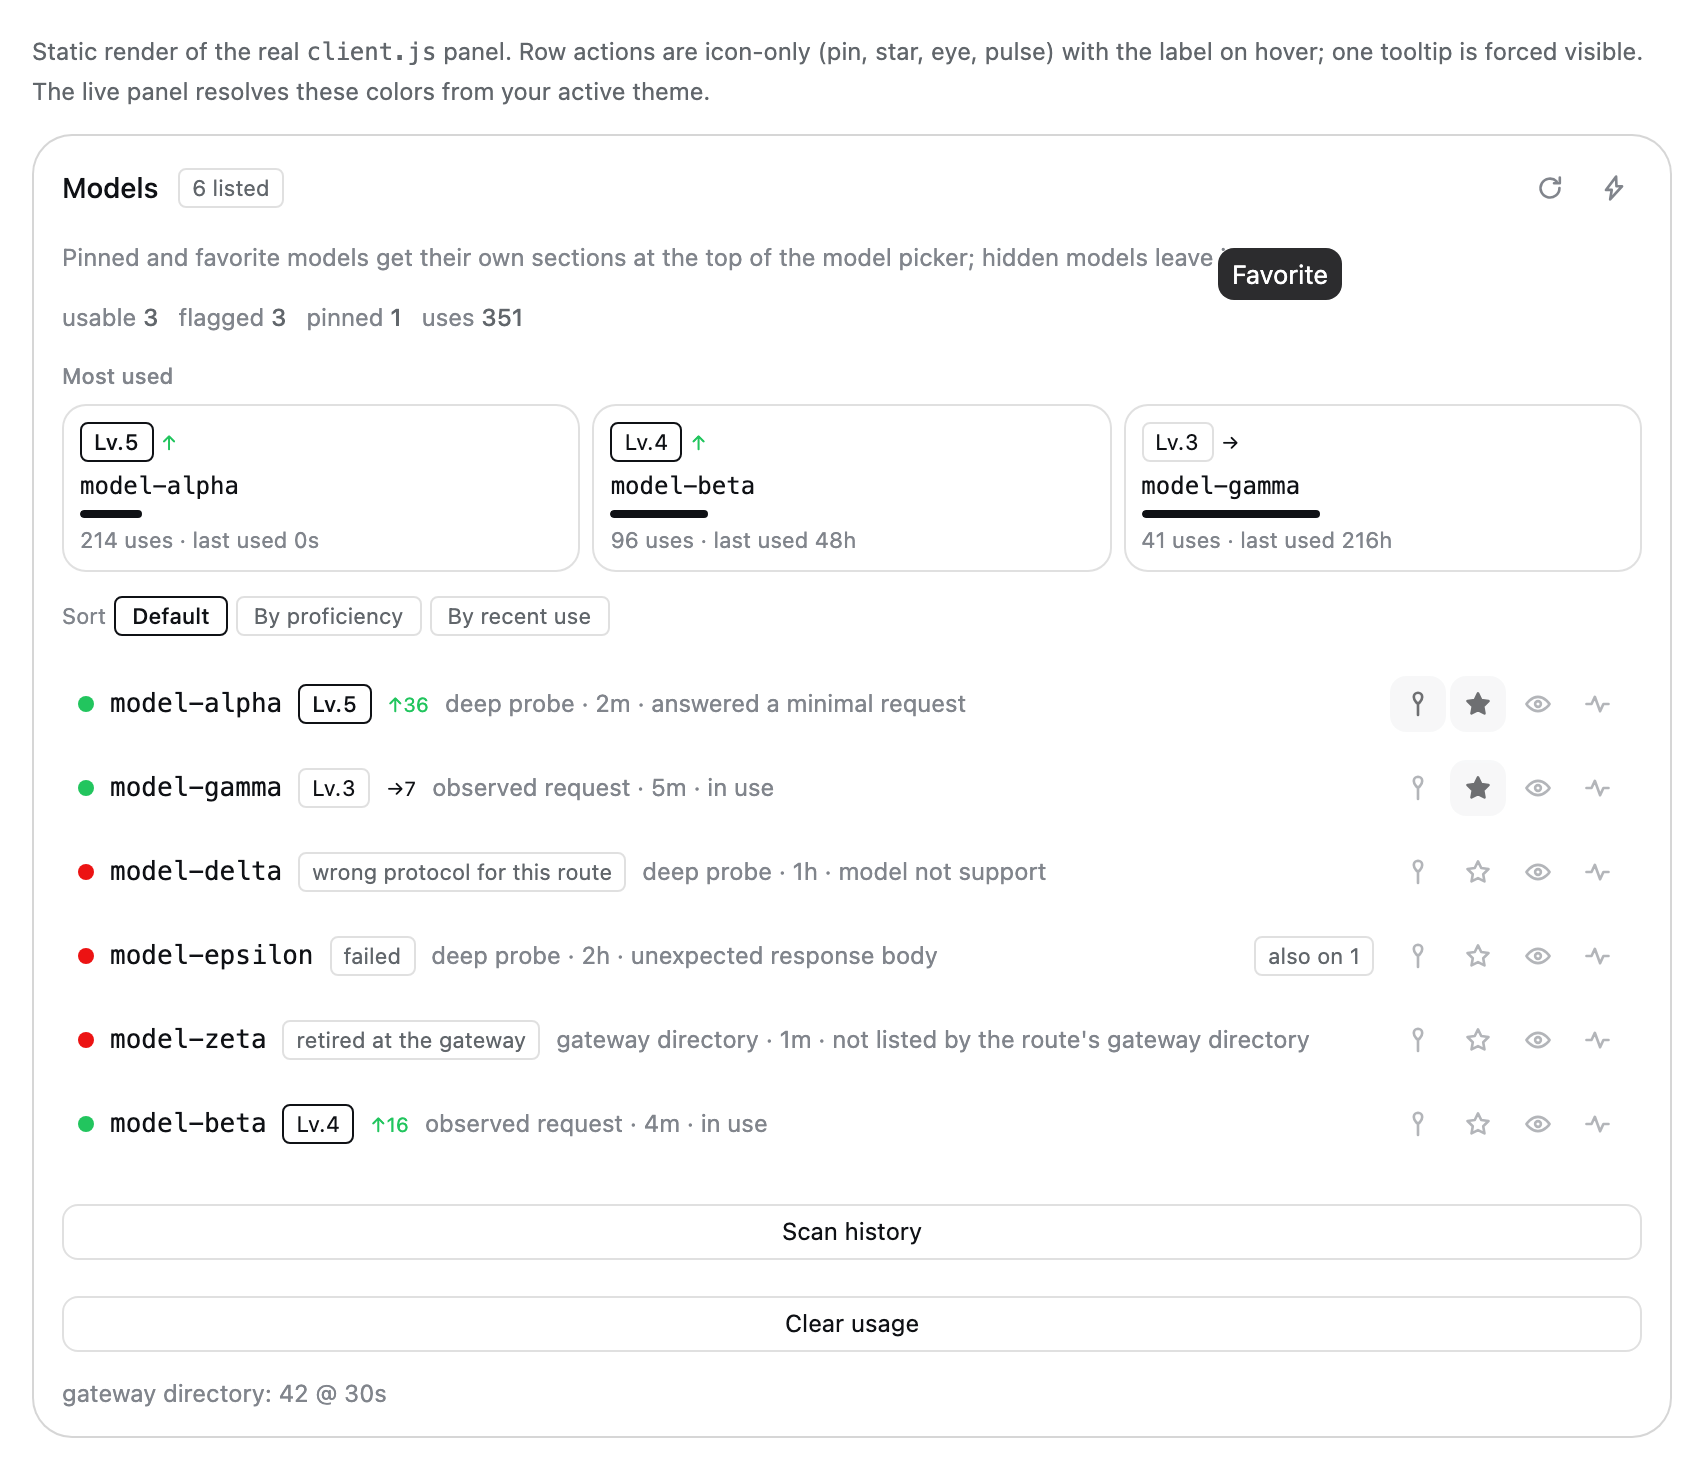
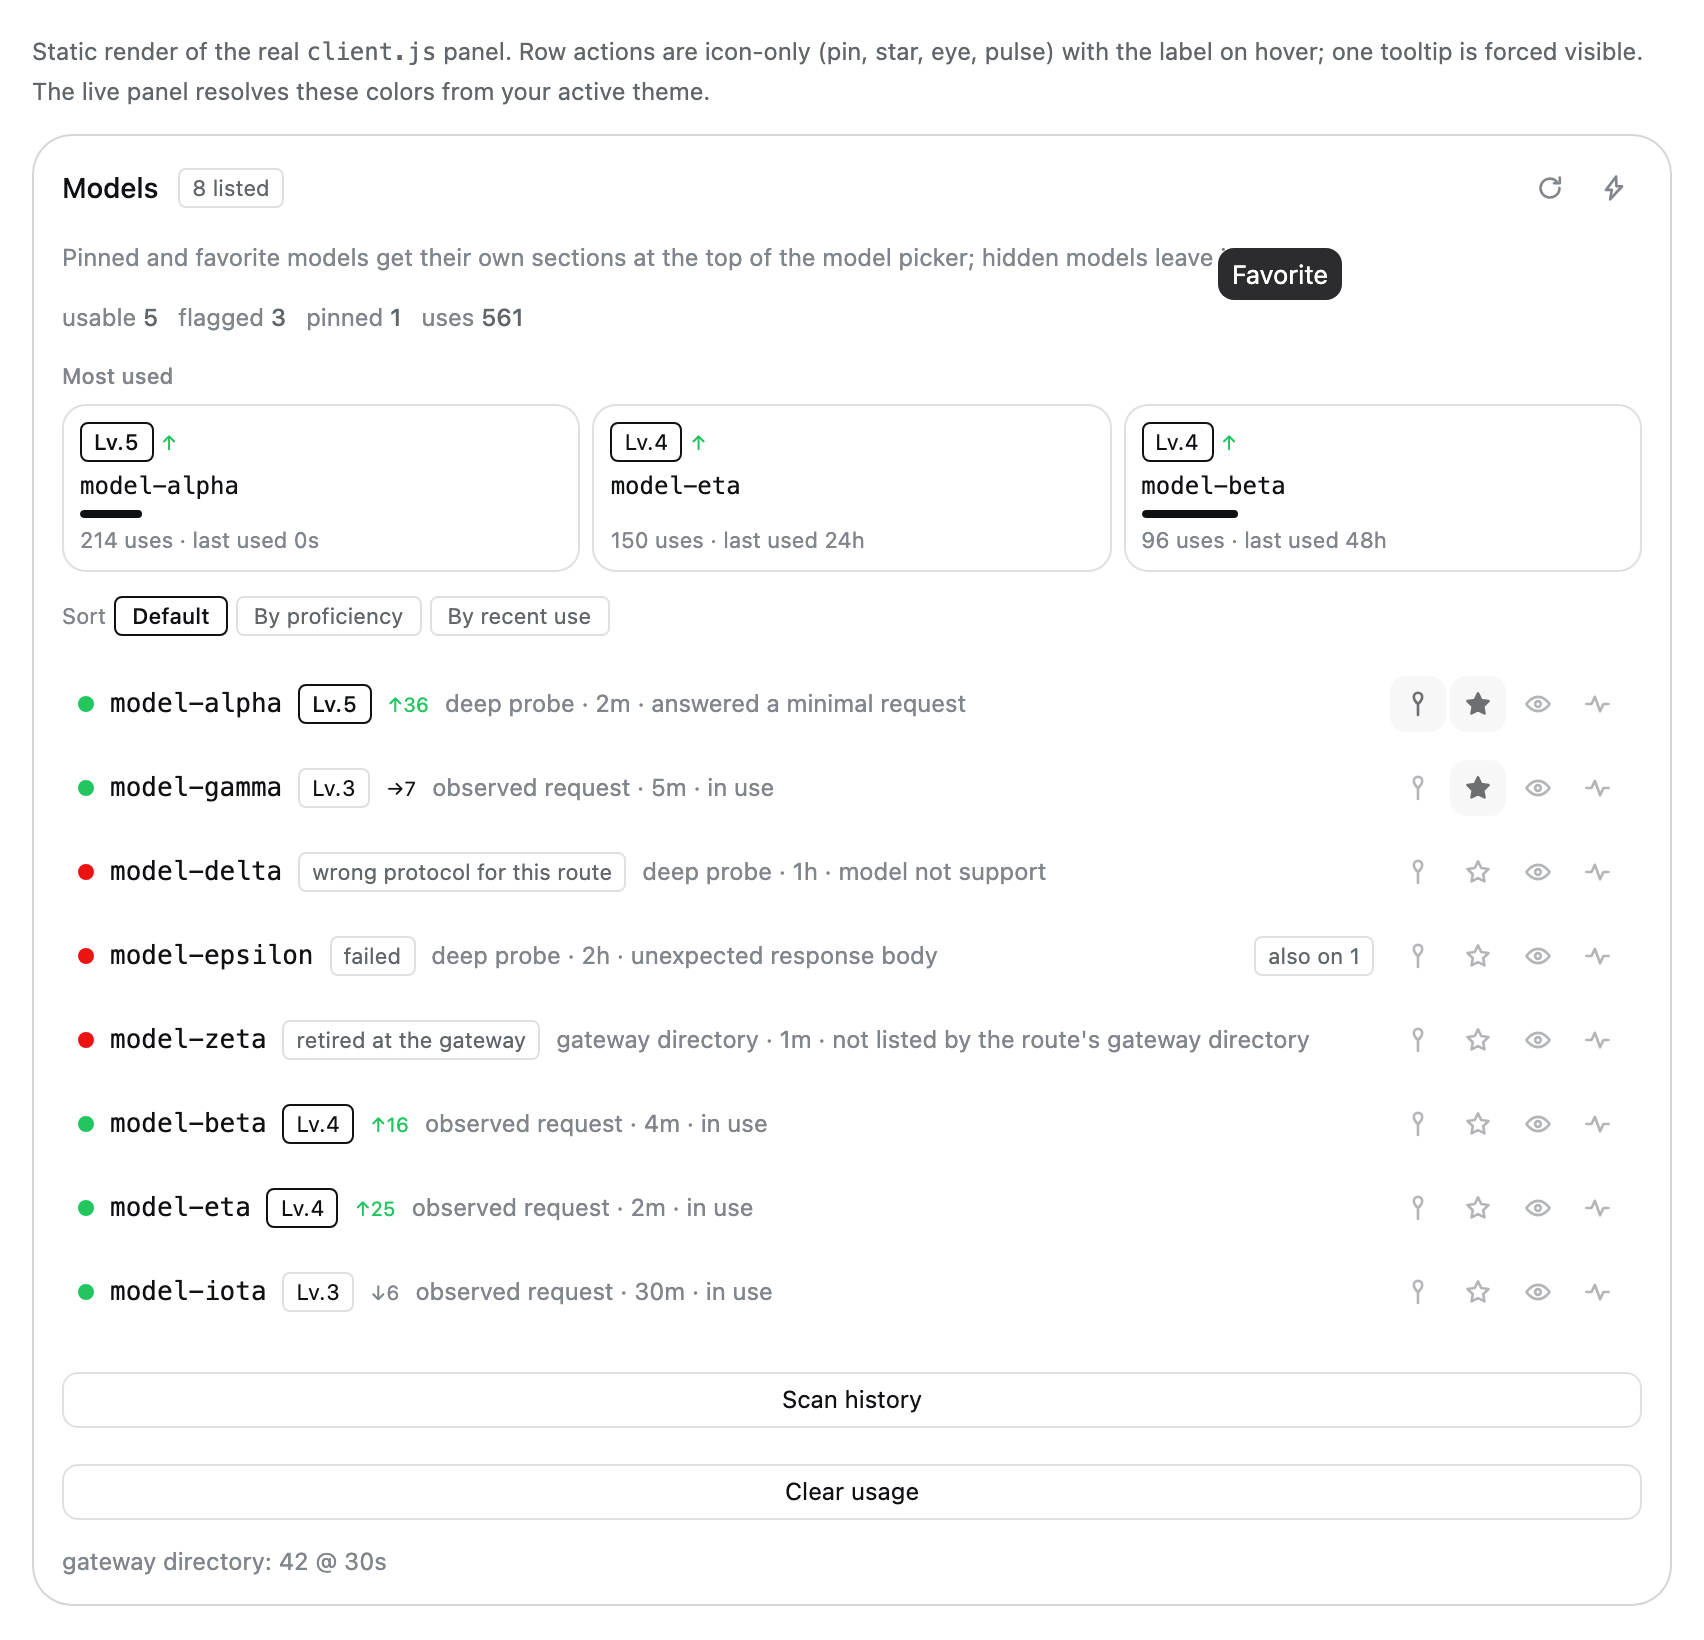
Rank, annotate and explain models in the composer picker
The picker showed a level chip and a bare trend arrow, which left the row
unable to answer the two questions the panel's card already answers: how
much of this week the arrow actually represents, and how far the model is
from its next level. Attach the 7-day count to the arrow, put a
distance-to-next-level bar on the rows of the section built from usage,
and spell the whole figure out in the tooltip.

Add the panel's sort control to the picker's footer as well, applied per
section so the lifted and route sections stay separate, and shown only
once usage exists — three orderings that all look alike are not a
control, they are noise.

diff --git a/client.js b/client.js
@@ -497,6 +497,14 @@ window.__ModuleLoader__.load({
 .llmm-item:focus-visible{outline:none;background:var(--dsw-alias-interactive-bg-hover)}
 .llmm-item.llmm-active{background:var(--dsw-alias-interactive-bg-hover)}
 .llmm-item.llmm-down{opacity:.55}
+/* The hero row's progress bar is a hairline pinned to the row's bottom edge, so
+   it adds no height to the list: the bar answers "how close is the next level"
+   without making the menu taller than the shipped picker it replaces. */
+.llmm-item{position:relative}
+.llmm-item-bar{position:absolute;left:7px;right:7px;bottom:2px;height:2px;border-radius:1px;background:var(--dsw-alias-bg-layer-1,var(--dsw-alias-border-l3));overflow:hidden}
+.llmm-item-bar-fill{display:block;height:100%;border-radius:1px;background:var(--dsw-alias-brand-primary,var(--dsw-alias-label-secondary));transition:width .2s ease}
+/* The sort control is a footer, not a row: it stays put while the list scrolls. */
+.llmm-menu-foot{flex:none;margin:3px 0 0;padding:4px 7px 2px;border-top:0.5px solid var(--dsw-alias-border-l3)}
 .llmm-empty{margin:2px 0;padding:12px;border:1px dashed var(--dsw-alias-border-l3);border-radius:var(--dsw-radius-lg);color:var(--dsw-alias-label-tertiary);font-size:12px;line-height:18px;text-align:center}
 .llmm-banner{display:flex;align-items:center;gap:8px;padding:6px 10px;border:0.5px solid var(--dsw-alias-state-warn-primary);border-radius:var(--dsw-radius-md);background:color-mix(in srgb, var(--dsw-alias-state-warn-primary) 12%, transparent);color:var(--dsw-alias-state-warn-label);font-size:12px;line-height:18px}
 .llmm-banner b{font-family:var(--ds-font-family-code);font-weight:500}
@@ -943,6 +951,11 @@ window.__ModuleLoader__.load({
       const [query, setQuery] = useState('')
       const [position, setPosition] = useState(null)
       const [failure, setFailure] = useState('')
+      // Which order the rows inside each section take. Default leaves every
+      // section in the order it was designed around; the two usage orderings are
+      // opt-in, exactly like the panel's, so opening the picker does not
+      // reshuffle a list the user has muscle memory for.
+      const [sortMode, setSortMode] = useState('default')
       const triggerRef = useRef(null)
       const menuRef = useRef(null)
 
@@ -1114,6 +1127,33 @@ window.__ModuleLoader__.load({
        */
       const spansRoutes = (rows) => new Set(rows.map(row => row.route)).size > 1
 
+      /**
+       * Order one section's rows by the active sort.
+       *
+       * Applied per section, not to the catalogue: the sections are rendered
+       * separately, so ordering the catalogue first would be undone by the split.
+       * `default` returns the rows untouched, which keeps both the designed order
+       * and the heat ranking that gives "Most used" its meaning.
+       *
+       * @param {object[]} rows - the section's rows.
+       * @returns {object[]} the same rows in display order.
+       */
+      const orderRows = (rows) => {
+        if (sortMode === 'default') return rows
+        const use = (row) => (row.usage === null || row.usage === undefined ? null : row.usage)
+        return rows.slice().sort((left, right) => {
+          if (sortMode === 'level') {
+            const level = (use(right)?.level ?? 0) - (use(left)?.level ?? 0)
+            if (level !== 0) return level
+          } else {
+            const heat = (use(right)?.heat ?? 0) - (use(left)?.heat ?? 0)
+            if (heat !== 0) return heat
+          }
+          const uses = (use(right)?.uses ?? 0) - (use(left)?.uses ?? 0)
+          return uses !== 0 ? uses : left.model.localeCompare(right.model)
+        })
+      }
+
       const choose = useCallback(async (row) => {
         setFailure('')
         const reuseEffort = current !== null && current.provider === row.route && current.model === row.model
@@ -1148,7 +1188,7 @@ window.__ModuleLoader__.load({
        * rather than drifting to the right edge, so a row reads the same way in both
        * surfaces.
        */
-      const renderItem = (row, showRoute) => {
+      const renderItem = (row, showRoute, hero) => {
         const overlayRow = overlay.get(`${row.route}/${row.model}`)
         const status = overlayRow ? overlayRow.status : 'unknown'
         const down = isProblem(status)
@@ -1161,8 +1201,14 @@ window.__ModuleLoader__.load({
           key: `${row.route}/${row.model}`,
           type: 'button',
           className: `llmm-item${active ? ' llmm-active' : ''}${down ? ' llmm-down' : ''}`,
+          // The same figures the panel's row explains, so a model is described
+          // once and read the same way wherever it appears.
           title: leveled
-            ? `${t('level')} ${usage.level} · ${usage.uses} ${t('usesLabel')} · ${usage.inputTokens + usage.outputTokens} ${t('tokensLabel')} · ${t(`trend${usage.trend === 'up' ? 'Up' : usage.trend === 'down' ? 'Down' : 'Flat'}`)}`
+            ? `${t('level')} ${usage.level} · ${usage.uses} ${t('usesLabel')}`
+              + (usage.nextAt > 0 ? ` · ${t('level')} ${usage.level + 1} @ ${usage.nextAt}` : '')
+              + ` · ${usage.inputTokens}/${usage.outputTokens} ${t('tokensLabel')}`
+              + (usage.seeded ? ` · ${t('seededNote')}` : '')
+              + ` · ${t(`trend${usage.trend === 'up' ? 'Up' : usage.trend === 'down' ? 'Down' : 'Flat'}`)}`
             : (overlayRow && overlayRow.reason ? overlayRow.reason : statusLabel(status)),
           onClick: () => { choose(row) },
         },
@@ -1173,13 +1219,31 @@ window.__ModuleLoader__.load({
           // chips, so the menu reads the same way as the panel.
           leveled ? h('span', { className: `llmm-chip llmm-lv llmm-lv-${Math.min(usage.level, 7)}` },
             `${t('levelShort')}.${usage.level}`) : null,
-          leveled && usage.trend !== 'flat'
-            ? h('span', { className: `llmm-trend llmm-trend-${usage.trend}` }, usage.trend === 'up' ? '↑' : '↓')
+          // The trailing count is what makes the arrow mean something: "busier"
+          // without a number cannot be told apart from one extra request. A model
+          // idle for a week keeps its level but shows no trend, because there is
+          // no recent use to report either way.
+          leveled && usage.recent7 > 0
+            ? h('span', {
+              className: `llmm-trend llmm-trend-${usage.trend}`,
+              title: t(`trend${usage.trend === 'up' ? 'Up' : usage.trend === 'down' ? 'Down' : 'Flat'}`),
+            }, `${usage.trend === 'up' ? '↑' : usage.trend === 'down' ? '↓' : '→'}${usage.recent7}`)
             : null,
           // The route chip takes the panel's "also on" slot: the same kind of
           // annotation, pushed to the right edge by its own margin.
           showRoute ? h('span', { className: 'llmm-chip llmm-route' }, row.route) : null,
           active ? h('span', { className: 'llmm-chip' }, t('selected')) : null,
+          // The lifted section is where the day-to-day models live, so it is the
+          // one place worth the space of a distance-to-next-level bar: the same
+          // question the panel's hero card answers, on the surface where the
+          // model is actually chosen.
+          hero && leveled
+            ? h('span', { className: 'llmm-item-bar', 'aria-hidden': true },
+              h('span', {
+                className: 'llmm-item-bar-fill',
+                style: { width: `${Math.round((usage.progress ?? 0) * 100)}%` },
+              }))
+            : null,
         )
       }
 
@@ -1188,15 +1252,26 @@ window.__ModuleLoader__.load({
        * @param {string} key - stable React key.
        * @param {string} title - section heading.
        * @param {object[]} rows - the rows.
+       * @param {boolean} [hero] - whether the rows carry progress bars.
        * @returns {object} the section element.
        */
-      const renderSection = (key, title, rows) => h('div', { key },
+      const renderSection = (key, title, rows, hero) => h('div', { key },
         h('div', { className: 'llmm-group' }, `${title} (${rows.length})`),
-        rows.map(row => renderItem(row, spansRoutes(rows))),
+        rows.map(row => renderItem(row, spansRoutes(rows), hero === true)),
       )
 
       const shown = sections.pinned.length + sections.favorites.length + sections.frequent.length
         + sections.groups.reduce((total, group) => total + group.rows.length, 0)
+
+      // Whether any model carries usage at all, which decides whether the sort
+      // control is offered. Counted across the catalogue rather than the visible
+      // sections so the control does not appear and vanish while typing.
+      const usageSeen = catalogue.reduce(
+        (total, group) => total + group.rows.filter(
+          row => row.usage !== null && row.usage !== undefined && row.usage.uses > 0,
+        ).length,
+        0,
+      )
 
       const triggerLabel = current === null
         ? t('pickerTitle')
@@ -1224,20 +1299,37 @@ window.__ModuleLoader__.load({
           // keeps its own section with those rows removed, so a model is never
           // listed twice and the menu still offers the whole catalogue.
           sections.pinned.length > 0
-            ? renderSection('llmm-pinned', t('sectionPinned'), sections.pinned)
+            ? renderSection('llmm-pinned', t('sectionPinned'), orderRows(sections.pinned))
             : null,
           sections.favorites.length > 0
-            ? renderSection('llmm-favorites', t('sectionFavorites'), sections.favorites)
+            ? renderSection('llmm-favorites', t('sectionFavorites'), orderRows(sections.favorites))
             : null,
           // Most used, between the user's explicit choices and the raw catalogue:
-          // earned by use rather than declared by hand.
+          // earned by use rather than declared by hand. This is the section that
+          // gets the progress bars, since it is the one built from usage.
           sections.frequent.length > 0
-            ? renderSection('llmm-frequent', t('sectionFrequent'), sections.frequent)
+            ? renderSection('llmm-frequent', t('sectionFrequent'), orderRows(sections.frequent), true)
             : null,
           sections.groups.map(group => renderSection(
-            group.route, group.name || group.route, group.rows,
+            group.route, group.name || group.route, orderRows(group.rows),
           )),
         ),
+        // The sort control earns its place only once there is usage to sort by;
+        // on a fresh profile it would offer three orderings that all look alike.
+        usageSeen > 0
+          ? h('div', { className: 'llmm-menu-foot' },
+            h('div', { className: 'llmm-sort' },
+              h('span', { className: 'llmm-sort-label' }, t('sortLabel')),
+              ['default', 'level', 'heat'].map(mode => h('button', {
+                key: mode,
+                type: 'button',
+                className: `llmm-sortbtn${sortMode === mode ? ' llmm-sortbtn-on' : ''}`,
+                'aria-pressed': sortMode === mode,
+                onClick: () => setSortMode(mode),
+              }, t(mode === 'default' ? 'sortDefault' : mode === 'level' ? 'sortLevel' : 'sortHeat'))),
+            ),
+          )
+          : null,
         failure !== '' ? h('div', { className: 'llmm-err', style: { padding: '8px' } }, failure) : null,
       )
 

diff --git a/README.md b/README.md
@@ -20,6 +20,7 @@ one flat list. Five things then go wrong at once, and none of them is the gatewa
 | Pain | What this plugin does |
 |---|---|
 | A long list, favorites buried | Pin and favorite models; the picker lifts them into their own sections at the top, and the panel sorts pinned → favorite → recent → rest |
+| No sense of which models you actually rely on | A local ledger levels each model by how often you use it and ranks the rest by 14-day heat, shown as a **Most used** card in the panel and a ranked section in the picker |
 | Retired models still listed; selecting one errors | Reconciles the route's `models:` list against the gateway's own `GET {baseURL}/models` directory and flags anything missing as retired |
 | Quota exhausted, manual switching | Watches `agent/request-error`, switches to the next usable model on a model-scoped quota failure, and shows a banner naming the model it moved for |
 | The same model served by several providers | Marks each row with how many other routes also serve it, instead of hiding the copies |
@@ -329,10 +330,27 @@ too — but it is still *selectable*. The plugin's view of a model can be stale,
 model from the picker is the one thing this design refuses to do silently. Search filters
 across the lifted sections as well as the route groups.
 
-A model that has been used carries a proficiency chip beside its name (`Lv.3`) and a small
-trend arrow when this week differs from last. A model that has never been used carries no
-chip at all: a wall of `Lv.1` badges on an untouched catalogue would be noise rather than
-information, so the chip itself is the signal that there is history behind a row.
+A model that has been used carries a proficiency chip beside its name (`Lv.3`) and, when
+this week differs from last, a trend arrow **with the 7-day count attached** (`↑12`, `↓4`).
+The count is the part that carries the meaning: an arrow alone cannot be told apart from one
+extra request. A model that has been used carries no trend at all once it has been idle for a
+week — there is no recent use to report, and a flat arrow would invent one. A model that has
+never been used carries no chip at all: a wall of `Lv.1` badges on an untouched catalogue
+would be noise rather than information, so the chip itself is the signal that there is
+history behind a row.
+
+**Most used** carries a distance-to-next-level bar under each row, because it is the one
+section built entirely from usage and the one where the models you are actually choosing
+between live. The bar is a hairline on the row's bottom edge, so it costs the list no height.
+Each row's tooltip spells the whole figure out — level, uses, the count that reaches the next
+level, tokens in/out, and whether the number came from the history scan.
+
+Once any model has usage, a **Sort** control at the foot of the card orders the rows inside
+every section: the default designed order, **By proficiency**, or **By recent use**. It sits
+outside the scrolling list so it stays reachable, and it exists only when there is usage to
+sort by — on a fresh profile it would offer three orderings that all look alike. The two
+usage orderings answer different questions, and on a real profile they disagree: the model
+you have used most is often not the one you are reaching for today.
 
 The picker is styled from the panel's own vocabulary rather than as a separate design: the
 same row box (padding, radius, hover background **and** hover border), the same dimming for
@@ -370,9 +388,9 @@ Both numbers come from a local ledger, and the distinction between them is the p
 
 - **Level** is earned from the lifetime count and never decreases. It answers "how much have
   I used this model", which is why it does not fall when you spend a week elsewhere.
-- **Heat** decays with a 14-day half-life, so it answers "what am I reaching for now". The
-  **Most used** sections rank by heat, not by the lifetime total, so the oldest model does
-  not win forever.
+- **Heat** decays with a 14-day half-life, so it answers "what am I reaching for now". Both
+  **Most used** sections — the panel's card and the picker's — rank by heat by default, not by
+  the lifetime total, so the oldest model does not win forever.
 
 The level steps are 0, 10, 30, 80, 200, 500 and 1200 uses, giving levels 1–7. Tokens are
 recorded and displayed but deliberately do not score: a handful of enormous requests should
@@ -389,6 +407,21 @@ choices keep the numbers honest:
   ledger does not hook the streaming event: that one wraps every call, including retries and
   replays.)
 - A replayed session event is deduplicated, so resuming a session does not double count it.
+
+The ledger starts empty, but your history does not. On startup the plugin folds the session
+logs already on disk into the counters, so a model you have been using for months starts at
+its real level instead of level 1. This runs in the background and is bounded: it scans for up
+to 20 seconds, yields, and resumes on the next pass, because replaying a large corpus is
+disk-heavy and must not compete with the live session you are in. Each session it has already
+counted is marked, so resuming never double counts.
+
+When it finds an empty or partial ledger, the panel says where the pass stands — waiting for
+the session service, reading your logs, how many responses it counted from how many sessions,
+or why it stopped. It says so on failure too, deliberately: an earlier version sampled the
+session service once at startup, and on a host whose service registered a moment later it
+answered "service not available" and wrote nothing. That empty ledger was indistinguishable
+from a correct one, and the feature looked dead while reporting nothing at all. **Scan
+history** at the bottom of the panel starts a pass on demand.
 
 Because the counters are local and describe your own habits, deleting them does not require
 hunting for a file: **Clear usage** at the bottom of the panel, or the `reset-usage` tool
